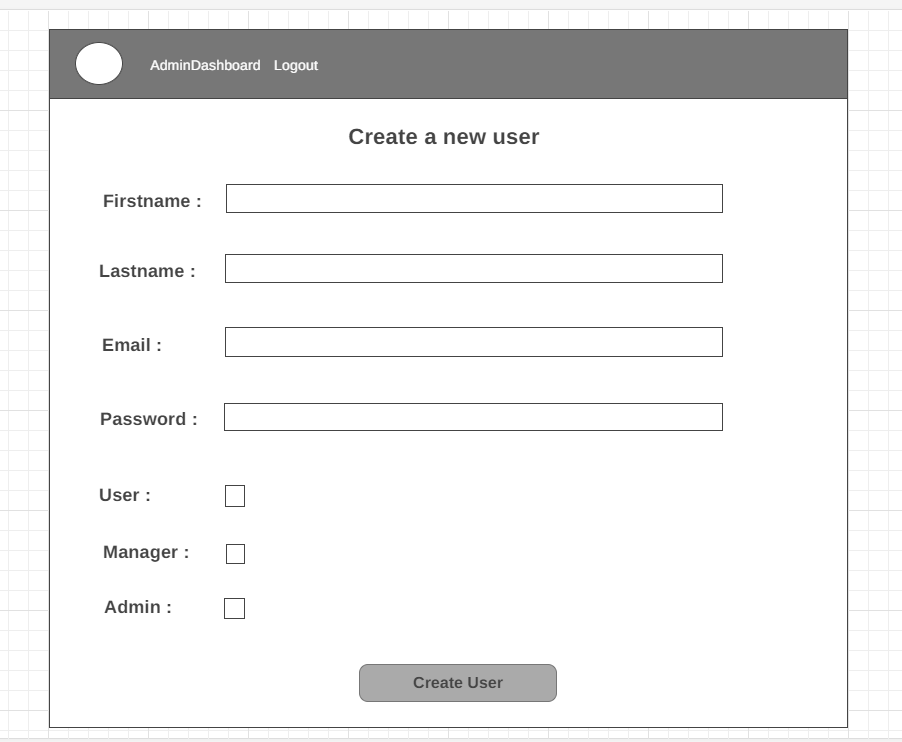
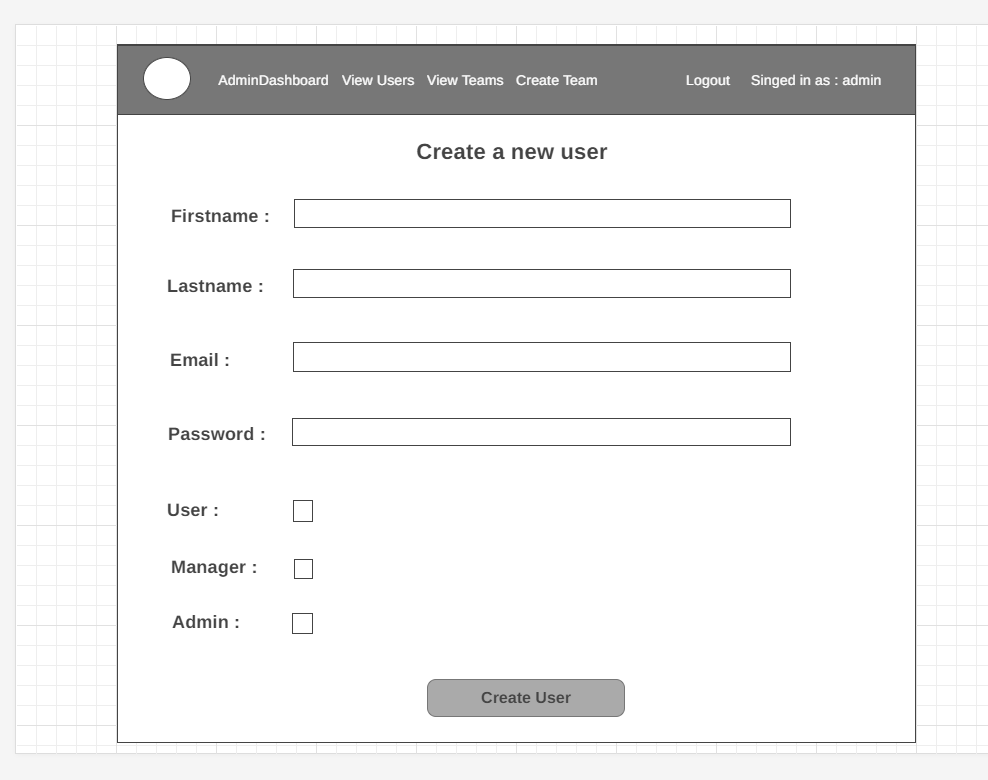
More wireframes have been added

diff --git a/src/components/NavbarComponent/NavbarComponent.jsx b/src/components/NavbarComponent/NavbarComponent.jsx
@@ -1,8 +1,7 @@
-import { Link } from "react-router-dom";
+/* eslint-disable react/prop-types */
 import Container from "react-bootstrap/Container";
 import Nav from "react-bootstrap/Nav";
 import Navbar from "react-bootstrap/Navbar";
-import NavDropdown from "react-bootstrap/NavDropdown";
 import { useContext } from "react";
 import ApplicationContext from "../context/ApplicationContext";
 
@@ -20,24 +19,22 @@ const NavbarComponent = ({ api }) => {
   };
 
   return (
-    
     <Navbar bg="dark" data-bs-theme="dark">
       <Container>
-        <Navbar.Brand >Attendance</Navbar.Brand>
+        <Navbar.Brand>Attendance</Navbar.Brand>
         <Nav className="me-auto">
-          <Nav.Link href="#home">Home</Nav.Link>
-          <Nav.Link href="#features">Features</Nav.Link>
-          
-            {loggedUser &&
-              <Nav.Link onClick={handleLogout}>Logout</Nav.Link>}
+          {loggedUser && (
+            <>
+              <Nav.Link href="#home">Home</Nav.Link>
+              <Nav.Link href="#features">Features</Nav.Link>
 
-            {loggedUser &&
+              <Nav.Link onClick={handleLogout}>Logout</Nav.Link>
+
               <Navbar.Collapse className="justify-content-end">
-                <Navbar.Text>
-                Signed in as: {loggedUser.firstname}
-                </Navbar.Text> 
+                <Navbar.Text>Signed in as: {loggedUser.firstname}</Navbar.Text>
               </Navbar.Collapse>
-                 }
+            </>
+          )}
         </Nav>
       </Container>
     </Navbar>
